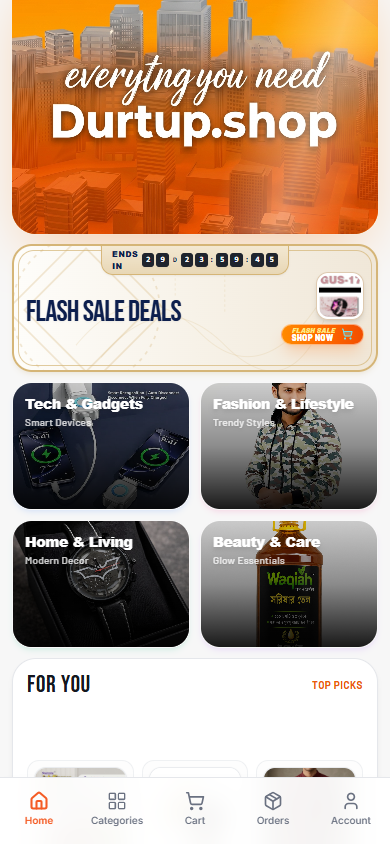
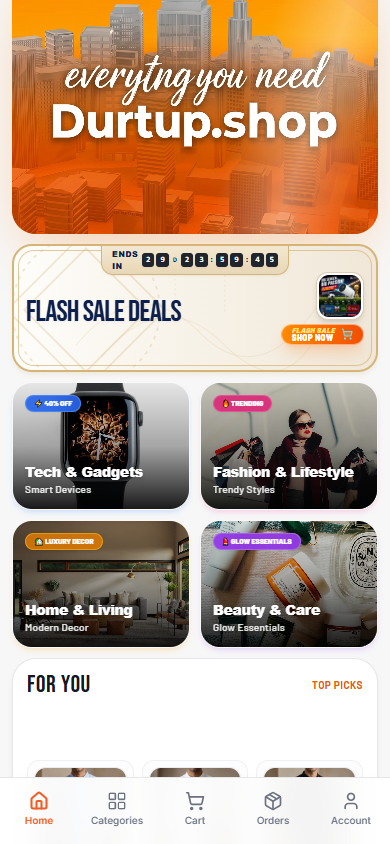
feat: upgrade 4 category tiles with high-converting, ultra-attractive ecommerce visuals and badges

diff --git a/src/components/home/HeroBento.tsx b/src/components/home/HeroBento.tsx
@@ -65,41 +65,41 @@ const CATEGORIES = [
     id: "cat_tech",
     name: "Tech & Gadgets",
     sub: "Smart Devices",
-    tag: "Gadgets",
+    tag: "⚡ 40% OFF",
     to: "/category/electronics",
-    defaultImg: "https://images.unsplash.com/photo-1546868871-7041f2a55e12?w=600&h=500&fit=crop",
-    shadow: "shadow-blue-500/10",
-    badgeColor: "bg-blue-500/30 text-blue-200 border-blue-400/40",
+    defaultImg: "https://images.unsplash.com/photo-1546868871-7041f2a55e12?w=800&auto=format&fit=crop&q=85",
+    shadow: "shadow-blue-500/15",
+    badgeColor: "bg-blue-600/90 text-white border-blue-400/50",
   },
   {
     id: "cat_lifestyle",
     name: "Fashion & Lifestyle",
     sub: "Trendy Styles",
-    tag: "Fashion",
+    tag: "🔥 TRENDING",
     to: "/category/fashion",
-    defaultImg: "https://images.unsplash.com/photo-1445205170230-053b83016050?w=600&h=500&fit=crop",
-    shadow: "shadow-pink-500/10",
-    badgeColor: "bg-pink-500/30 text-pink-200 border-pink-400/40",
+    defaultImg: "https://images.unsplash.com/photo-1483985988355-763728e1935b?w=800&auto=format&fit=crop&q=85",
+    shadow: "shadow-pink-500/15",
+    badgeColor: "bg-pink-600/90 text-white border-pink-400/50",
   },
   {
     id: "cat_home",
     name: "Home & Living",
     sub: "Modern Decor",
-    tag: "Living",
+    tag: "🏡 LUXURY DECOR",
     to: "/category/home",
-    defaultImg: "https://images.unsplash.com/photo-1583847268964-b28dc8f51f92?w=600&h=500&fit=crop",
-    shadow: "shadow-emerald-500/10",
-    badgeColor: "bg-emerald-500/30 text-emerald-200 border-emerald-400/40",
+    defaultImg: "https://images.unsplash.com/photo-1618221195710-dd6b41faaea6?w=800&auto=format&fit=crop&q=85",
+    shadow: "shadow-amber-500/15",
+    badgeColor: "bg-amber-600/90 text-white border-amber-400/50",
   },
   {
     id: "cat_beauty",
     name: "Beauty & Care",
     sub: "Glow Essentials",
-    tag: "Skincare",
+    tag: "💄 GLOW ESSENTIALS",
     to: "/category/beauty",
-    defaultImg: "https://images.unsplash.com/photo-1598440947619-2c35fc9aa908?w=600&h=500&fit=crop",
-    shadow: "shadow-purple-500/10",
-    badgeColor: "bg-purple-500/30 text-purple-200 border-purple-400/40",
+    defaultImg: "https://images.unsplash.com/photo-1598440947619-2c35fc9aa908?w=800&auto=format&fit=crop&q=85",
+    shadow: "shadow-purple-500/15",
+    badgeColor: "bg-purple-600/90 text-white border-purple-400/50",
   },
 ];
 
@@ -428,18 +428,17 @@ function HeroBentoComponent({ forYou = [], flashSale = [], trending = [] }: Hero
           </Link>
         )}
 
-        {/* Category tiles */}
-        {CATEGORIES.filter((c) => isVisible(c.id)).map(({ id, name, sub, to, defaultImg, shadow }) => {
+        {/* Category tiles - Ultra-Attractive High-Converting Design */}
+        {CATEGORIES.filter((c) => isVisible(c.id)).map(({ id, name, sub, tag, to, defaultImg, shadow, badgeColor }) => {
           const c = cfg(id);
-          const dynamicImg = categoryImgs[id];
-          const tileImg = validUrl(c.imageUrl, dynamicImg || defaultImg);
+          const tileImg = validUrl(c.imageUrl, defaultImg);
           return (
             <Link
               key={id}
               to={c.link || to}
-              className={`col-span-1 row-span-1 rounded-[1.25rem] md:rounded-[2rem] p-3 sm:p-4 md:p-5 text-white flex flex-col justify-between shadow-md md:shadow-lg ${shadow} group cursor-pointer overflow-hidden relative hover:-translate-y-1 active:scale-[0.98] transition-all duration-300 border border-white/10`}
+              className={`col-span-1 row-span-1 rounded-[1.25rem] md:rounded-[2rem] p-3 sm:p-4 md:p-5 text-white flex flex-col justify-between shadow-md md:shadow-lg ${shadow} group cursor-pointer overflow-hidden relative hover:-translate-y-1 active:scale-[0.98] transition-all duration-300 border border-white/15`}
             >
-              {/* Dynamic Product Background Image from API */}
+              {/* Ultra Attractive Product Image */}
               <img
                 src={tileImg}
                 alt={c.title || name}
@@ -451,14 +450,21 @@ function HeroBentoComponent({ forYou = [], flashSale = [], trending = [] }: Hero
               />
               
               {/* Dark Gradient Overlay for Maximum Readability */}
-              <div className="absolute inset-0 bg-gradient-to-t from-black/90 via-black/45 to-black/20 group-hover:via-black/35 transition-colors duration-300" />
+              <div className="absolute inset-0 bg-gradient-to-t from-black/90 via-black/35 to-black/10 group-hover:via-black/20 transition-colors duration-300 pointer-events-none" />
+
+              {/* Top Accent Badge */}
+              <div className="relative z-10 flex justify-start">
+                <span className={`inline-flex items-center text-[7px] sm:text-[9px] font-black px-2 py-0.5 rounded-full border shadow-sm backdrop-blur-md ${badgeColor}`}>
+                  {c.badge || tag}
+                </span>
+              </div>
 
               {/* Bottom Professional Typography */}
               <div className="relative z-10">
                 <h3 className="font-['Plus_Jakarta_Sans',sans-serif] font-black text-white text-sm sm:text-base md:text-lg leading-tight tracking-tight drop-shadow-md group-hover:text-orange-300 transition-colors">
                   {c.title || name}
                 </h3>
-                <p className="text-[10px] sm:text-xs text-white/80 font-medium tracking-wide mt-0.5 line-clamp-1 drop-shadow">
+                <p className="text-[10px] sm:text-xs text-white/90 font-medium tracking-wide mt-0.5 line-clamp-1 drop-shadow">
                   {c.subtitle || sub}
                 </p>
               </div>
